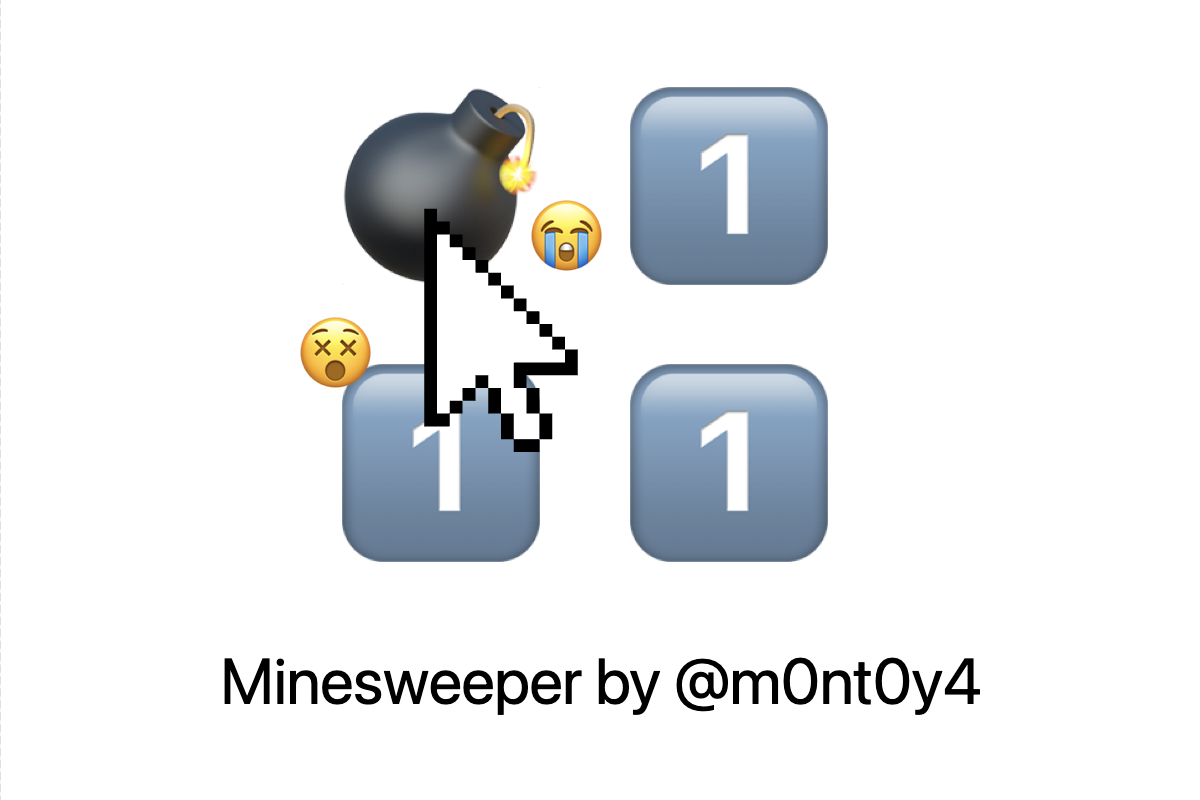
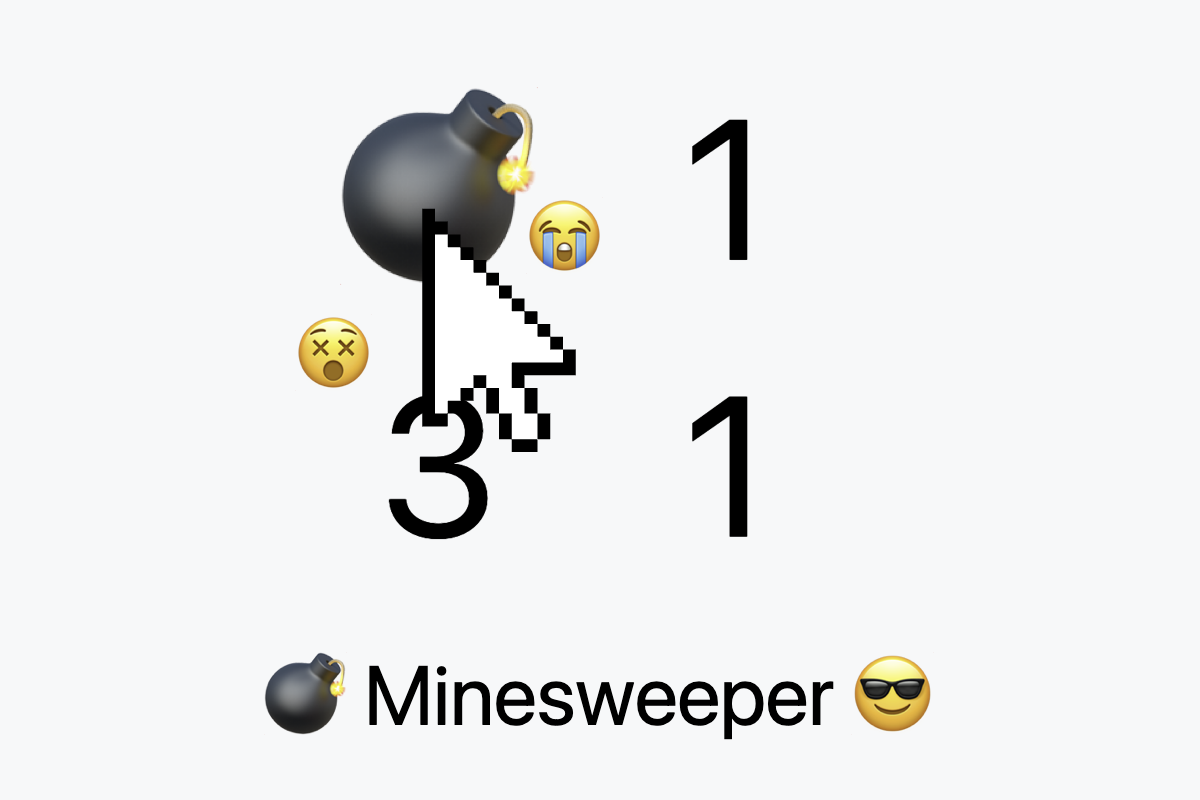
Try longer share text, update og-image

diff --git a/public/minisweeper.js b/public/minisweeper.js
@@ -351,11 +351,11 @@ const statsMinisweeper = () => {
 
 const shareStats = () => { 
   if(!farcasterSDK || !appURL) return false; 
-  // const gamesPlayedSuffix = minisweeperState.stats.games == 1 ? '' : 's'; 
+  const gamesPlayedSuffix = minisweeperState.stats.games == 1 ? '' : 's'; 
   const gamesWonSuffix = minisweeperState.stats.wins == 1 ? '' : 's'; 
-  let shareText = `My Minesweeper stats: ${minisweeperState.stats.wins} win${gamesWonSuffix}.`; 
+  let shareText = `My Minesweeper stats: ${minisweeperState.stats.games} game${gamesPlayedSuffix}, ${minisweeperState.stats.wins} win${gamesWonSuffix}!`; 
   if(minisweeperState.stats.fastest) { 
-    shareText = `${shareText} Fastest: ${parseInt(minisweeperState.stats.fastest/1000)}.${parseInt(minisweeperState.stats.fastest%1000)}s!`; 
+    shareText = `${shareText} Fastest win: ${parseInt(minisweeperState.stats.fastest/1000)}.${parseInt(minisweeperState.stats.fastest%1000)}s!`; 
   }
   farcasterSDK.actions.openUrl(`https://warpcast.com/~/compose?text=${encodeURIComponent(shareText)}&embeds[]=${appURL}`); 
   return false; 

diff --git a/src/app/page.tsx b/src/app/page.tsx
@@ -5,7 +5,7 @@ const appUrl = process.env.NEXT_PUBLIC_URL;
 
 const frame = {
   version: "next",
-  imageUrl: `${appUrl}/og-image.png`,
+  imageUrl: `${appUrl}/og-image.png?v=2`,
   button: {
     title: "Play Minesweeper",
     action: {
